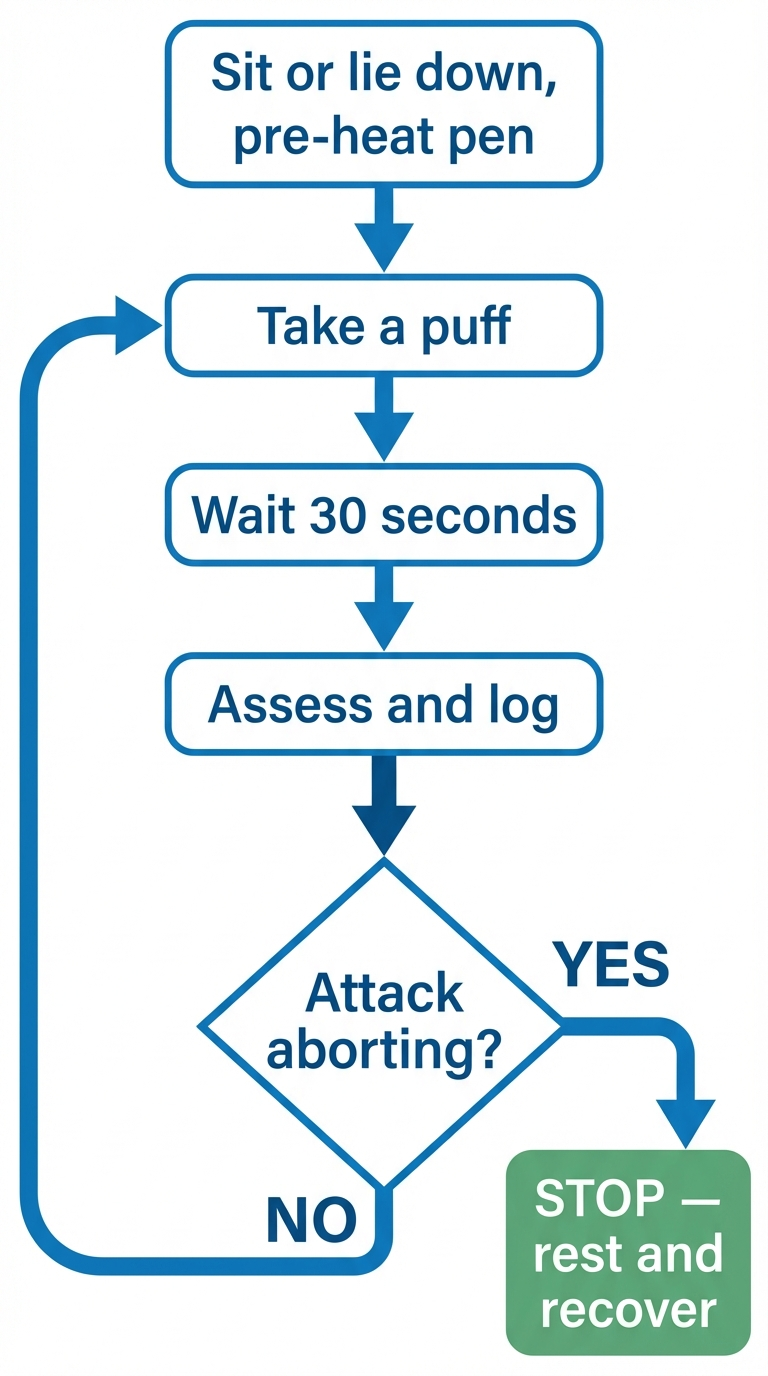
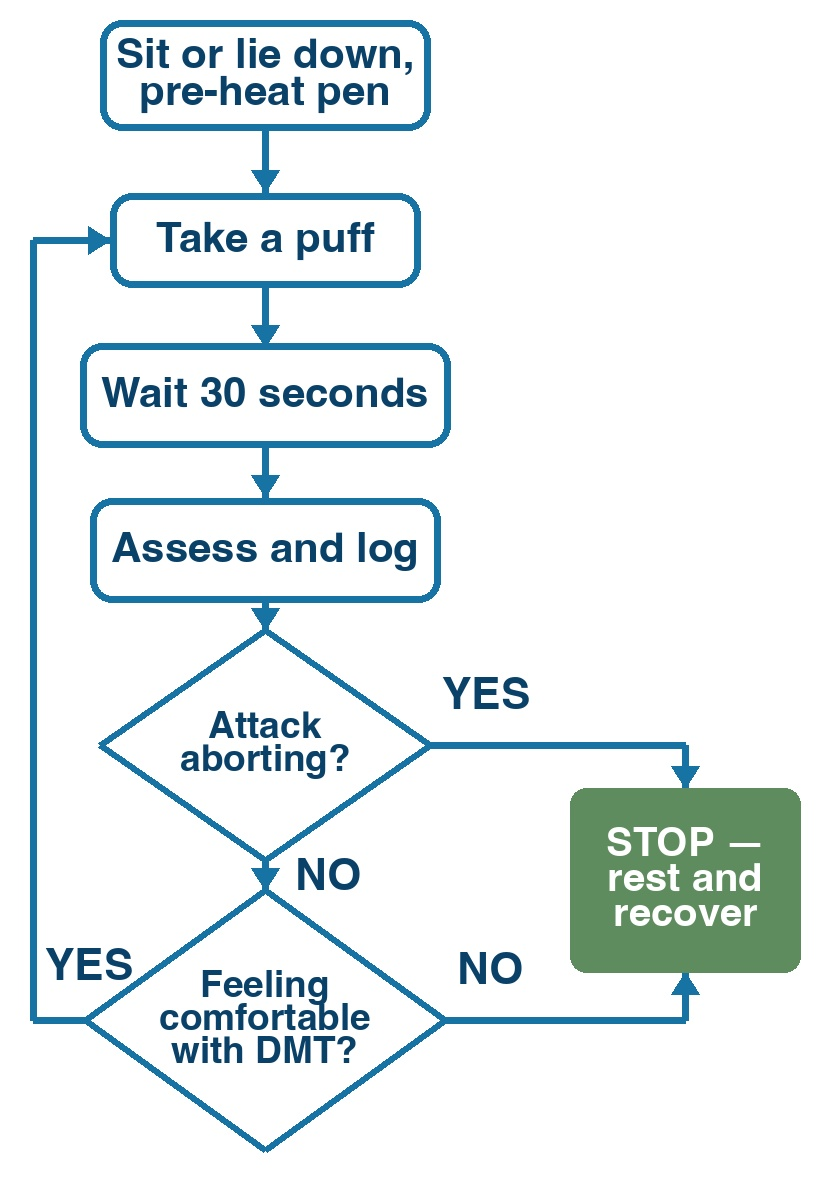
Update flowchart with comfort-check decision node
Add "Feeling comfortable with DMT?" diamond after "Attack aborting? → NO"
so the user can opt out of another puff if they're uncomfortable. Also
update CLAUDE.md with guidance on balancing risk info vs. suffering.

Changed region(s): [[0.0, 0.0, 1.0, 1.0], [0.5938, 0.6701, 0.6562, 0.7005], [0.1562, 0.5787, 0.2188, 0.6091]]

diff --git a/CLAUDE.md b/CLAUDE.md
@@ -8,6 +8,8 @@ A health and safety guide for cluster headache patients who use DMT to abort the
 
 **Target audience:** 50-something person with no drug experience and limited ability to find reliable information online. All content must be written with extreme clarity and accessibility in mind.
 
+**Minimizing suffering**. The guide should strike a balance between (1) informing the user about the risks of taking DMT and (2) minimizing the risk the user is too conservative about DMT --a powerful tool to minimize the intense suffering caused by attacks.
+
 ## Current State
 
 - `Guide MVP v1 claude.md` — reference document containing the full guide content (one-page summary, oxygen protocol, DMT safety, aborting protocol, drug interactions, vape preparation, sitter requirements)
